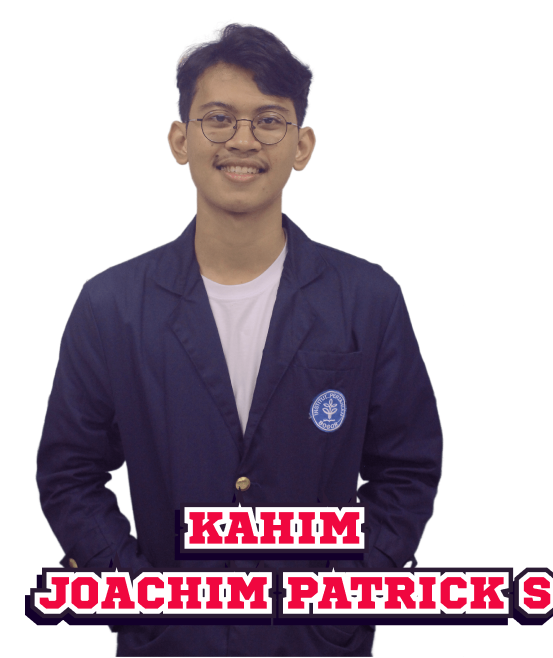
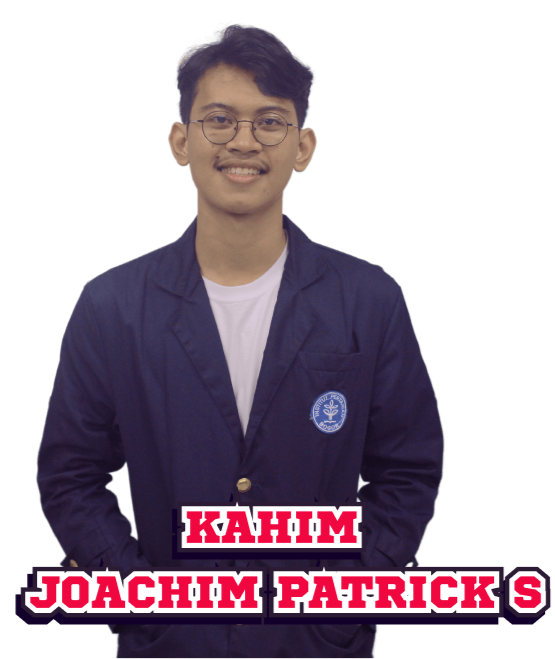
Add some responsiveness to the home-slide img

diff --git a/src/features/Homepage/Page.css b/src/features/Homepage/Page.css
@@ -107,10 +107,6 @@
 }
 
 /* Slide 2 */
-.hero-home-slide2 > .slider2{
-    bottom: 50px;
-}
-
 .hero-home-slide2{
     position: relative;
     display: none;
@@ -141,6 +137,7 @@
     -webkit-text-stroke-width: 2px;
     /* -webkit-text-stroke-color: #040404; */
     transition: 0.2s;
+    z-index: 1;
 }
 
 .hero-home-slide2 h3{
@@ -158,24 +155,38 @@
     text-align: center;
     color: #FFF;
     transition: 0.2s;
+    z-index: 1;
 }
 
-.home-slide2-kahim{
+.hero-slide2-container1{
     position: absolute;
     bottom: 0;
     left: 2px;
-    /* width: 100%; */
-    /* max-width:552.25px ;
-    max-height:656.68px ; */
-    /* max-width: 100%; */
-    /* height: auto; */
+
+    padding-top: clamp(4.4115625rem, 0.38156rem + 20.15vw, 20.53125rem);
+    padding-bottom: clamp(4.4115625rem, 0.38156rem + 20.15vw, 20.53125rem);
+    padding-right: clamp(3.6190625rem, 0.31286rem + 16.531vw, 16.84375rem);
+    padding-left: clamp(3.6190625rem, 0.31286rem + 16.531vw, 16.84375rem);
+
+    background-image: url(./../../Assets/Slider/home-slide2-kahim.png);
+    background-size: 100% 100%;
+
 }
 
-.home-slide2-wakahim{
+.hero-slide2-container2{
     position: absolute;
     bottom: 0;
-    right: 2px;
+    right: 10px;
+    
+    padding-top: clamp(4.4115625rem, 0.38156rem + 20.15vw, 20.53125rem);
+    padding-bottom: clamp(4.4115625rem, 0.38156rem + 20.15vw, 20.53125rem);
+    padding-right: clamp(3.6190625rem, 0.95146rem + 13.338vw, 14.2890625rem);
+    padding-left: clamp(3.6190625rem, 0.95146rem + 13.338vw, 14.2890625rem);
+
+    background-image: url(./../../Assets/Slider/home-slide2-wakahim.png);
+    background-size: 100% 100%;
 }
+
 
 /* Animation on text */
 .hero-home-slide2 h1:hover {
@@ -642,9 +653,14 @@
         margin-top: 2px;
     }
 
+    .hero-home-slider button img{
+        width: 3px;
+        height: auto;
+    }
 
     .hero-home-slider{
-        display: none;
+        bottom: 20px;
+        gap: 10px;
     }
 
     .hero-home-slide1 {
@@ -705,6 +721,57 @@
     
     .hero-home-slide1 p:hover {
         font-size: 12px;
+    }
+
+    /* Slide 2 */
+    .hero-home-slide2 {
+        background-image: url(./../../Assets/Background/bghimal-home2-mobile.png);
+        height: 243px;
+    }
+
+    .hero-home-slide2 .hero-home-logo-container{
+        margin-top: 4rem;
+        margin-bottom: 0.5rem;
+    }
+
+    .hero-home-slide2  .hero-home-logo-connect{
+        width: 133.518px;
+        height: 69.763px;
+        transition: 0.2s;
+    }
+
+    .hero-home-slide2 h1{
+        font-size: 19.026px;
+        line-height: 21.363px;
+        letter-spacing: 5px;
+        text-shadow: 3px 3px 0px #040404;
+        -webkit-text-stroke-width: 2px;
+        /* -webkit-text-stroke-color: #040404; */
+    }
+    
+    .hero-home-slide2 h3{
+        margin-top: 3px;
+        font-size: 10.681px;
+        line-height: 13.352px;
+        text-shadow: 1px 1.3px 0px #040404;
+        -webkit-text-stroke-width: 1px;
+        /* -webkit-text-stroke-color: #040404; */
+    }
+
+    .hero-home-slide2 h1:hover{
+        font-size: 25px;
+    }
+
+    .hero-home-slide2 h3:hover {
+        font-size: 15px;
+    }
+
+    .slider2{
+        bottom: 20px;
+    }
+
+    .hero-slide2-container2{
+        right: 1px;
     }
 }
 

diff --git a/src/features/Homepage/Page.js b/src/features/Homepage/Page.js
@@ -64,9 +64,9 @@ const Page = () => {
             <img src={connect} alt="connect" className="hero-home-logo-connect"/>
           </div>
 
-          <img className="home-slide2-kahim" src={kahim} alt=""></img>
-          <img className="home-slide2-wakahim" src={wakahim} alt=""></img>
-
+          <div className='hero-slide2-container1'></div>
+          <div className='hero-slide2-container2'></div>
+         
           <h1>CONNECT</h1>
           <h3>Together We Connect Each Other</h3>
           
